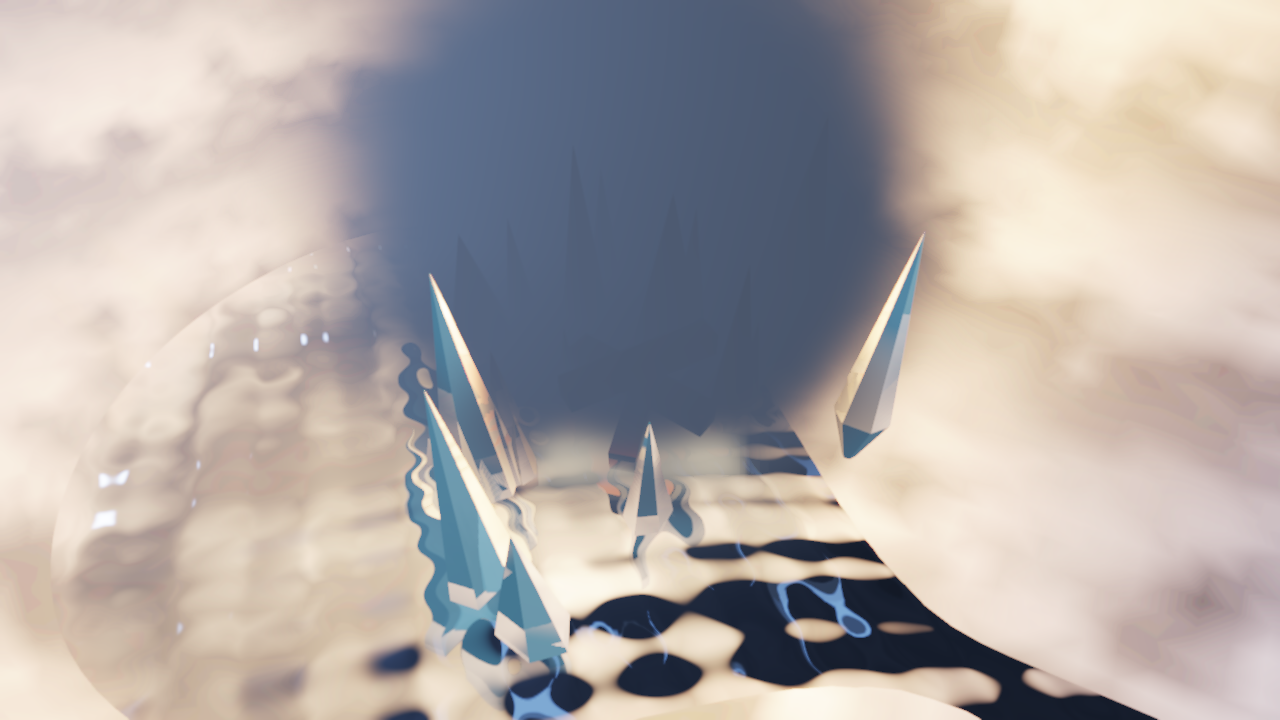
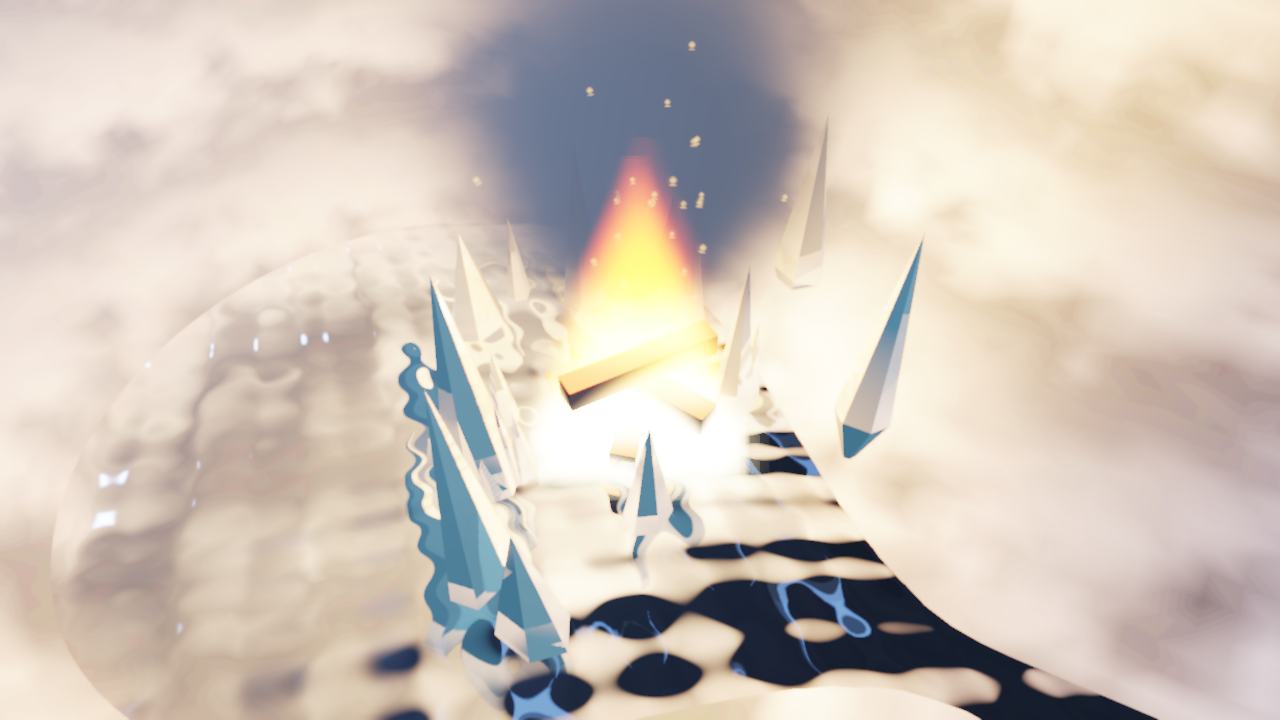
G35/G36 fix: flame visible, not hidden behind smoke
The smoke emitter (large dark alpha billboards) was created after the
flame emitter, so the particles pass drew it on top of the flame -> the
fire read as 'only smoke'. Now the smoke node is created BEFORE the fire
node (draw order = child order, no sorting in drawParticles), starts
above the flame tip, and is lighter/thinner (alpha 0.30->0.16, higher
start). Flame alpha raised 0.6->0.72. Same reorder in
particles_screenshot. References re-rendered + compressed:
cave_{wide,crystals,entrance}, g5_particles_{fire,smoke}.

diff --git a/examples/cave_screenshot/main.cpp b/examples/cave_screenshot/main.cpp
@@ -277,6 +277,28 @@ int main(int argc, char** argv) {
         e.castShadow = true;
         e.materialId = 10 + i;
     }
+    { // smoke: dark plume drifting to the ceiling — created BEFORE the flame so the
+      // particles pass draws it first and the bright flame stays visible on top of it
+        scene::Node& n = scene.root().createChild("smoke");
+        auto& em = n.attach<scene::ParticleEmitterComponent>();
+        em.config.position = {kFirePos.x, kFirePos.y + 1.15f, kFirePos.z}; // above the flame tip
+        em.config.direction = {0.f, 1.f, 0.f};
+        em.config.speed = 0.4f;
+        em.config.spread = 0.35f;
+        em.config.rate = 40.f;
+        em.config.lifetime = 2.6f;
+        em.config.size = 0.22f;
+        em.config.grow = 0.55f;
+        em.config.color = {0.10f, 0.11f, 0.14f};
+        em.config.alpha = 0.16f;
+        em.config.gravity = 0.3f;
+        em.config.drag = 0.7f;
+        em.config.blend = particles::BlendMode::Alpha;
+        if (!em.system.create(4096, em.config)) {
+            std::fprintf(stderr, "cave_screenshot: smoke emitter create failed\n");
+            return 1;
+        }
+    }
     { // flame: teardrop billboards with fbm flicker (G35)
         scene::Node& n = scene.root().createChild("fire");
         auto& em = n.attach<scene::ParticleEmitterComponent>();
@@ -289,7 +311,7 @@ int main(int argc, char** argv) {
         em.config.size = 0.50f;
         em.config.grow = 0.18f;
         em.config.color = {1.0f, 0.72f, 0.30f};
-        em.config.alpha = 0.6f;
+        em.config.alpha = 0.72f;
         em.config.gravity = 0.45f;
         em.config.drag = 1.2f;
         em.config.blend = particles::BlendMode::Additive;
@@ -320,28 +342,6 @@ int main(int argc, char** argv) {
             return 1;
         }
     }
-    { // smoke: dark, slow, alpha-blended plume drifting to the ceiling
-        scene::Node& n = scene.root().createChild("smoke");
-        auto& em = n.attach<scene::ParticleEmitterComponent>();
-        em.config.position = {kFirePos.x, kFirePos.y + 0.55f, kFirePos.z};
-        em.config.direction = {0.f, 1.f, 0.f};
-        em.config.speed = 0.45f;
-        em.config.spread = 0.3f;
-        em.config.rate = 50.f;
-        em.config.lifetime = 3.0f;
-        em.config.size = 0.3f;
-        em.config.grow = 0.8f;
-        em.config.color = {0.06f, 0.07f, 0.09f};
-        em.config.alpha = 0.30f;
-        em.config.gravity = 0.3f;
-        em.config.drag = 0.7f;
-        em.config.blend = particles::BlendMode::Alpha;
-        if (!em.system.create(4096, em.config)) {
-            std::fprintf(stderr, "cave_screenshot: smoke emitter create failed\n");
-            return 1;
-        }
-    }
-
     // ice crystal clusters on the floor (ring around the fire + a few in the tunnel)
     std::mt19937 rng(23u);
     std::uniform_real_distribution<float> uni(0.f, 1.f);

diff --git a/examples/particles_screenshot/main.cpp b/examples/particles_screenshot/main.cpp
@@ -127,6 +127,28 @@ int main(int argc, char** argv) {
     const bool wantSmoke = args.kind == "smoke" || args.kind == "all";
     const bool wantPollen = args.kind == "pollen" || args.kind == "all";
 
+    if (wantSmoke) { // smoke plume above the fire: alpha-blended, expanding — created BEFORE
+        // the fire emitter so the particles pass draws it first and the flame stays visible
+        scene::Node& n = scene.root().createChild("smoke");
+        auto& em = n.attach<scene::ParticleEmitterComponent>();
+        em.config.position = {0.f, 1.7f, 0.f}; // well above the flame tip
+        em.config.direction = {0.f, 1.f, 0.f};
+        em.config.speed = 0.7f;
+        em.config.spread = 0.3f;
+        em.config.rate = 70.f;
+        em.config.lifetime = 3.0f;
+        em.config.size = 0.22f;
+        em.config.grow = 0.7f;
+        em.config.color = {0.38f, 0.39f, 0.44f};
+        em.config.alpha = 0.15f;
+        em.config.gravity = 0.35f; // buoyant
+        em.config.drag = 0.6f;
+        em.config.blend = particles::BlendMode::Alpha;
+        if (!em.system.create(4096, em.config)) {
+            std::fprintf(stderr, "particles_screenshot: smoke emitter create failed\n");
+            return 1;
+        }
+    }
     if (wantFire) { // campfire: G35 teardrop flame (fbm flicker, heat color ramp) + a few additive embers
         scene::Node& n = scene.root().createChild("fire");
         auto& em = n.attach<scene::ParticleEmitterComponent>();
@@ -166,27 +188,6 @@ int main(int argc, char** argv) {
         em2.config.blend = particles::BlendMode::Additive;
         if (!em2.system.create(2048, em2.config)) {
             std::fprintf(stderr, "particles_screenshot: ember emitter create failed\n");
-            return 1;
-        }
-    }
-    if (wantSmoke) { // smoke plume above the fire: alpha-blended, expanding
-        scene::Node& n = scene.root().createChild("smoke");
-        auto& em = n.attach<scene::ParticleEmitterComponent>();
-        em.config.position = {0.f, 1.1f, 0.f};
-        em.config.direction = {0.f, 1.f, 0.f};
-        em.config.speed = 0.7f;
-        em.config.spread = 0.25f;
-        em.config.rate = 90.f;
-        em.config.lifetime = 3.5f;
-        em.config.size = 0.25f;
-        em.config.grow = 0.9f;
-        em.config.color = {0.45f, 0.45f, 0.5f};
-        em.config.alpha = 0.22f;
-        em.config.gravity = 0.35f; // buoyant
-        em.config.drag = 0.6f;
-        em.config.blend = particles::BlendMode::Alpha;
-        if (!em.system.create(4096, em.config)) {
-            std::fprintf(stderr, "particles_screenshot: smoke emitter create failed\n");
             return 1;
         }
     }
